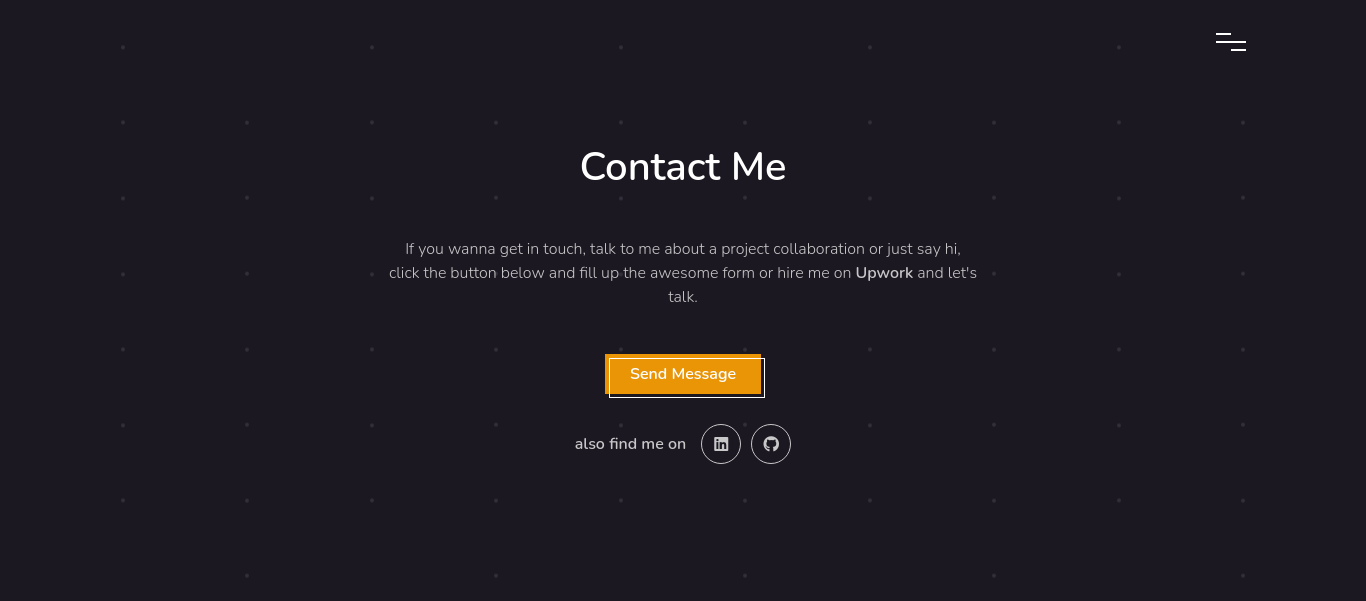
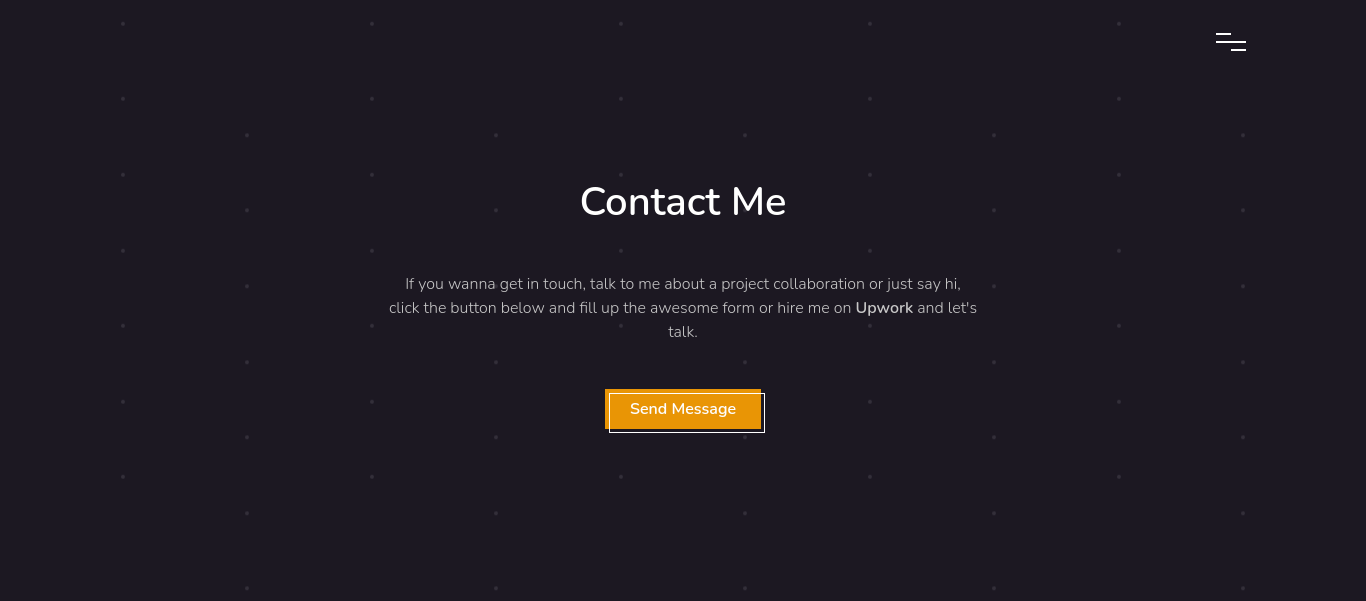
update sections

Changed region(s): [[0.2767, 0.4493, 0.7072, 0.7488], [0.3997, 0.2396, 0.5842, 0.3594], [0.3075, 0.3894, 0.7072, 0.4193]]

diff --git a/src/data/items.js b/src/data/items.js
@@ -3,7 +3,7 @@ import img from "../assets/img";
 const items = [
   {
     id: 1,
-    categories: ["pure-css"],
+    categories: ["html-css"],
     thumbnail: img.archmove1,
     screenshots: [img.archmove1, img.archmove2],
     title: "Arch Move",
@@ -15,12 +15,12 @@ const items = [
   },
   {
     id: 2,
-    categories: ["pure-css", "personal"],
+    categories: ["html-css", "react"],
     thumbnail: img.portfolio1,
     screenshots: [img.portfolio1, img.portfolio2, img.portfolio3],
     title: "Personal Portfolio",
     description:
-      "Built a portfolio website to showcase my recent projects. I've used React, styled and animate it with CSS, and custom VanillaJS for building modal, slider, pagination, navigation, etc. You can check out the link to my source code below",
+      "Built a portfolio website to showcase my recent projects. I've used React, styled and animate it with CSS, and VanillaJS for building modal, slider, pagination, etc. You can check out the link to my source code below.",
     created: "2021",
     technologies: ["HTML", "CSS (preprocessed w/ SASS)", "JavaScript", "React"],
     role: ["Front-End"],
@@ -28,7 +28,7 @@ const items = [
   },
   {
     id: 3,
-    categories: ["bootstrap", "back-end"],
+    categories: ["bootstrap", "full-stack"],
     thumbnail: img.diliDashboard,
     screenshots: [
       img.diliDashboard,
@@ -36,16 +36,16 @@ const items = [
       img.diliEvents,
       img.diliCertificates,
     ],
-    title: "Barangay Dili System",
+    title: "Dili Management System",
     description:
-      "The system stored residents' data in the barangay for officials and admins to view, and manage. This is our thesis back in college, we were consist of 3 individuals and I am the lead developer and designer of this project.",
+      "DMS is a system for collecting, sorting, retrieving and processing information of the residents in barangay which is used, or desired, by one of more managers, in the performance of their duties. This is our thesis back in college, we were consist of 3 individuals and I am the lead developer and designer of this project.",
     created: "2017",
     technologies: ["HTML", "CSS", "jQuery", "Bootstrap", "Django", "MySQL"],
     role: ["Front-End", "Back-End"],
   },
   {
     id: 4,
-    categories: ["bootstrap", "back-end"],
+    categories: ["bootstrap", "full-stack"],
     thumbnail: img.sjnhsLogin,
     screenshots: [
       img.sjnhsLogin,
@@ -56,52 +56,10 @@ const items = [
     ],
     title: "SJNHS Voting System",
     description:
-      "Help client with their thesis by building a voting system for a local secondary school as well as help them write a documentation for it. Built with Bootstrap for styling and PHP in the back-end.",
+      "Built a voting system for a local secondary school for a client's thesis as well as help them write a documentation for it. I used Bootstrap for styling and PHP in the back-end.",
     created: "2017",
     technologies: ["HTML", "CSS", "jQuery", "Bootstrap", "PHP", "MySQL"],
     role: ["Front-End", "Back-End"],
-  },
-  {
-    id: 5,
-    categories: ["pure-css", "back-end", "personal"],
-    thumbnail: img.pigly1,
-    screenshots: [img.pigly1, img.pigly2, img.pigly3],
-    title: "Pigly",
-    description: "Built a url shortener using Ruby on Rails in the back-end.",
-    created: "2018",
-    technologies: [
-      "HTML",
-      "CSS (preprocessed w/ SASS)",
-      "JavaScript",
-      "Ruby on Rails",
-    ],
-    role: ["Front-End", "Back-End"],
-    url: "https://pig-ly.herokuapp.com/",
-  },
-  {
-    id: 6,
-    categories: ["bootstrap", "back-end", "personal"],
-    thumbnail: img.booking1,
-    screenshots: [
-      img.booking1,
-      img.booking2,
-      img.booking3,
-      img.booking4,
-      img.booking5,
-      img.booking6,
-    ],
-    title: "Online Booking Form",
-    description: `Built an online booking form with Bootstrap and Ruby on Rails in the back-end. It has cool features like email notification (for client, and admin), admin panel (with filters, scopes, etc) and more. Still a bit rough around the edges but all important features are implemented. You can check out the admin panel at <a href='https://stormy-earth-93721.herokuapp.com/admin' target='_blank'>https://stormy-earth-93721.herokuapp.com/admin</a> and use 'admin@example.com', 'password' for credentials.`,
-    created: "2018",
-    technologies: [
-      "HTML",
-      "CSS (preprocessed w/ SASS)",
-      "Bootstrap",
-      "JavaScript",
-      "Ruby on Rails",
-    ],
-    role: ["Front-End", "Back-End"],
-    url: "https://stormy-earth-93721.herokuapp.com/",
   },
 ];
 

diff --git a/src/components/About.js b/src/components/About.js
@@ -39,20 +39,20 @@ class About extends React.Component {
               alt=""
               className="about__img"
             />
-            <h1 className="about__heading">Hi, My name is Gilbert.</h1>
+            <h1 className="about__heading">Hi, my name is Gilbert.</h1>
             <p>
-              I'm a <span className="text-bold">Front-end Developer</span>{" "}
-              living in the Philippines. I make web applications using{" "}
-              <span className="text-bold">HTML</span>,{" "}
-              <span className="text-bold">CSS</span>,{" "}
+              I'm a <span className="text-bold">Front-end Developer</span> based
+              in the Philippines. My expertise is focused on{" "}
+              <span className="text-bold">HTML5</span>,{" "}
+              <span className="text-bold">CSS3</span>,{" "}
               <span className="text-bold">JavaScript</span> and{" "}
-              <span className="text-bold">React</span>. Check out my latest work
-              on the{" "}
+              <span className="text-bold">React</span>. Feel free to take a look
+              at my latest works on the{" "}
               <button
                 className="text-bold text-primary about__link"
                 onClick={() => this.handleAboutLink("/portfolio")}
               >
-                Portfolio Page
+                portfolio page
               </button>
               . Want to talk about a project? You can get in touch with me{" "}
               <button
@@ -64,16 +64,19 @@ class About extends React.Component {
               .
             </p>
 
-            <div className="skills">
-              <h2 className="skills__heading">Skills</h2>
-              <ul className="flex justify-center gap-4 flex-wrap">
-                <li className="skills__item">HTML</li>
-                <li className="skills__item">CSS</li>
-                <li className="skills__item">JavaScript</li>
-                <li className="skills__item">React</li>
-                <li className="skills__item">Git</li>
-                <li className="skills__item">Figma</li>
-              </ul>
+            <div className="mt-30 flex gap-15 align-center justify-center">
+              <a href="https://github.com/gilbertlc" target="_blank">
+                <i class="fab fa-github"></i> Github
+              </a>
+              <a
+                href="https://www.linkedin.com/in/gilbertlcsndle"
+                target="_blank"
+              >
+                <i class="fab fa-linkedin"></i> Linkedin
+              </a>
+              <a href="mailto:gilbertlcsndle@gmail.com" target="_blank">
+                <i class="fas fa-envelope"></i> Email
+              </a>
             </div>
           </div>
         </div>

diff --git a/src/components/usePortfolio.js b/src/components/usePortfolio.js
@@ -19,7 +19,7 @@ export default function usePortfolio(props) {
           filterStatus.classList.add("portfolio__filter-status--open");
           filterStatus.querySelector(
             "p"
-          ).innerHTML = `Filtering <span className='text-bold'>${e.target.innerHTML}</span> Works`;
+          ).innerHTML = `Filtering <span class='text-bold'>${e.target.innerHTML}</span> Works`;
 
           setTimeout(() => {
             filter
@@ -235,11 +235,8 @@ export default function usePortfolio(props) {
 
       modal.querySelector(".modal__thumbnails").innerHTML = thumbnails.join("");
 
-      modal.querySelector(
-        ".modal__heading"
-      ).innerHTML = currentItem.querySelector(
-        ".portfolio-item__heading"
-      ).innerHTML;
+      modal.querySelector(".modal__heading").innerHTML =
+        currentItem.querySelector(".portfolio-item__heading").innerHTML;
 
       modal.querySelector(".modal__body").innerHTML = currentItem.querySelector(
         ".portfolio-item__details"
@@ -262,11 +259,10 @@ export default function usePortfolio(props) {
           .querySelector(".modal__prev-work")
           .classList.remove("invisible");
 
-        document.querySelector(
-          ".modal__prev-work-title"
-        ).innerHTML = portfolioItems[currentItemIndex - 1].querySelector(
-          ".portfolio-item__heading"
-        ).innerHTML;
+        document.querySelector(".modal__prev-work-title").innerHTML =
+          portfolioItems[currentItemIndex - 1].querySelector(
+            ".portfolio-item__heading"
+          ).innerHTML;
         document
           .querySelector(".modal__prev-work")
           .querySelector(".modal__small-img").src = portfolioItems[
@@ -281,11 +277,10 @@ export default function usePortfolio(props) {
         document
           .querySelector(".modal__next-work")
           .classList.remove("invisible");
-        document.querySelector(
-          ".modal__next-work-title"
-        ).innerHTML = portfolioItems[currentItemIndex + 1].querySelector(
-          ".portfolio-item__heading"
-        ).innerHTML;
+        document.querySelector(".modal__next-work-title").innerHTML =
+          portfolioItems[currentItemIndex + 1].querySelector(
+            ".portfolio-item__heading"
+          ).innerHTML;
         document
           .querySelector(".modal__next-work")
           .querySelector(".modal__small-img").src = portfolioItems[

diff --git a/src/components/Portfolio.js b/src/components/Portfolio.js
@@ -67,11 +67,20 @@ const Portfolio = (props) => {
             </li>
             <li>
               <button
-                title="Filter by Pure CSS"
-                data-filter="pure-css"
+                title="Filter by HTML/CSS"
+                data-filter="html-css"
                 className="filter__button"
               >
-                Pure CSS
+                HTML/CSS
+              </button>
+            </li>
+            <li>
+              <button
+                title="Filter by React"
+                data-filter="react"
+                className="filter__button"
+              >
+                React
               </button>
             </li>
             <li>
@@ -85,20 +94,11 @@ const Portfolio = (props) => {
             </li>
             <li>
               <button
-                title="Filter by With Back-End"
-                data-filter="back-end"
+                title="Filter by Full-Stack"
+                data-filter="full-stack"
                 className="filter__button"
               >
-                With Back-End
-              </button>
-            </li>
-            <li>
-              <button
-                title="Filter by Personal"
-                data-filter="personal"
-                className="filter__button"
-              >
-                Personal
+                Full-Stack
               </button>
             </li>
           </ul>

diff --git a/src/components/Contact.js b/src/components/Contact.js
@@ -88,30 +88,6 @@ class Contact extends Component {
             <button className="btn btn-primary mt-15 contact__send-btn">
               Send Message
             </button>
-
-            <div className="mt-30 flex align-center justify-center">
-              <span className="mr-15 text-bold">also find me on</span>
-              <ul className="flex contact__social-list">
-                <li>
-                  <a
-                    href="https://www.linkedin.com/in/gilbertlcsndle"
-                    target="_blank"
-                    className="contact__social center"
-                  >
-                    <i className="fab fa-linkedin"></i>
-                  </a>
-                </li>
-                <li>
-                  <a
-                    href="https://github.com/gilbertlc"
-                    target="_blank"
-                    className="contact__social center"
-                  >
-                    <i className="fab fa-github"></i>
-                  </a>
-                </li>
-              </ul>
-            </div>
           </div>
         </div>
 

diff --git a/src/assets/img/index.js b/src/assets/img/index.js
@@ -13,13 +13,4 @@ export default {
   sjnhsResults: require("./sjnhs/results.png").default,
   sjnhsStudents: require("./sjnhs/students.png").default,
   sjnhsVote: require("./sjnhs/vote.png").default,
-  pigly1: require("./pigly/1.png").default,
-  pigly2: require("./pigly/2.png").default,
-  pigly3: require("./pigly/3.png").default,
-  booking1: require("./booking/1.png").default,
-  booking2: require("./booking/2.png").default,
-  booking3: require("./booking/3.png").default,
-  booking4: require("./booking/4.png").default,
-  booking5: require("./booking/5.png").default,
-  booking6: require("./booking/6.png").default,
 };

diff --git a/src/assets/scss/base/_utilities.scss b/src/assets/scss/base/_utilities.scss
@@ -27,6 +27,10 @@
   gap: 4px;
 }
 
+.gap-15 {
+  gap: 15px;
+}
+
 .px-15 {
   padding-left: 15px;
   padding-right: 15px;
